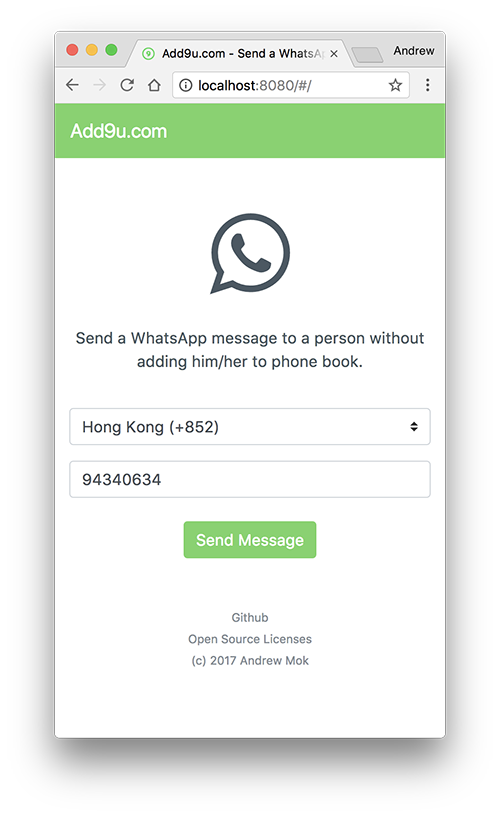
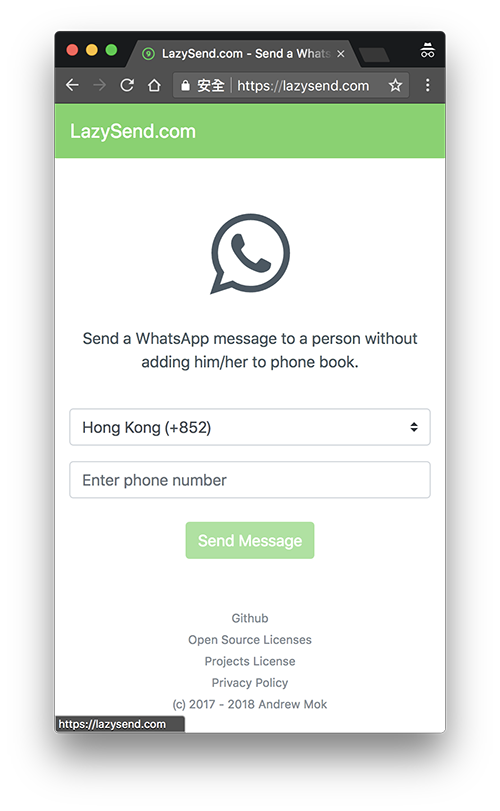
UPT: Update README.md

diff --git a/README.md b/README.md
@@ -1,14 +1,16 @@
-# LazySend.com - Send WhatsApp message to new person with one click
+# LazySend.com
+**Former name: Add9u.** Built with Vue, PWA.
 
-> It is so stupid that I have to add a new person every time to phone book because I want to send a WhatsApp message to him/her.
-> 
-> That's why I make this simple progressive web application. It allows you to send a WhatsApp message to a person without adding him/her to the phone book.
+It is so stupid that I have to add a new person every time to phone book because I want to send a WhatsApp message to him/her. 
 
-![Screen Capture](static/img/screenshot.png)
+That's why I make this simple progressive web application. It allows you to send a WhatsApp message to a person without adding him/her to the phone book.
 
-## Live Demo
+## Demo
 - [LazySend.com](https://lazysend.com)
 
+[![Screen Capture](static/img/screenshot.png)](https://lazysend.com)
+
+## Usage
 It is a progressive web application. Just directly add it to your home screen if you have an Android device.
 
 Want a quicker way? You can directly add the phone number with country code after `https://lazysend.com/whatsapp/`.
@@ -18,7 +20,7 @@ Take a phone number `94340634` with country code `+852` as an example:
 https://lazysend.com/whatsapp/85294340634
 ```
 
-## Clone & Install
+## Clone, Install and Run
 The instructions below will get you a copy of the project up and run on your machine. See below for notes on how to deploy the project on a live system.
 
 Clone the repo, and run
@@ -31,9 +33,6 @@ npm run dev
 
 # build for production with minification
 npm run build
-
-# build for production and view the bundle analyzer report
-npm run build --report
 ```
 
 ## Built With
@@ -45,17 +44,15 @@ npm run build --report
 - [Vue-cli](https://github.com/vuejs/vue-cli)
 - [Vue-router](https://github.com/vuejs/vue-router)
 
-
-## Coding Standards
-
+## Coding Standard
 - [JavaScript Standard Style](https://standardjs.com)
 
-## Authors
-
+## Author
 - [Andrew Mok](https://andrewmmc.com) (@andrewmmc)
 
-## Declaration
-This is NOT an official product by WhatsApp Inc. Any communication between users and WhatsApp servers is handled by official WhatsApp application. It only provides a shortcut for users to open official WhatsApp application by using API links.
+## License
+- [MIT License](LICENSES.md)
 
-## Questions?
-- If you have any questions, please feel free to [contact me via email](mailto:hello@andrewmmc.com).
+## Support
+- Give this repo a **star** if you like :)
+- For any questions, please feel free to [open an issue here](../../issues) or [contact me via email](mailto:hello@andrewmmc.com).
